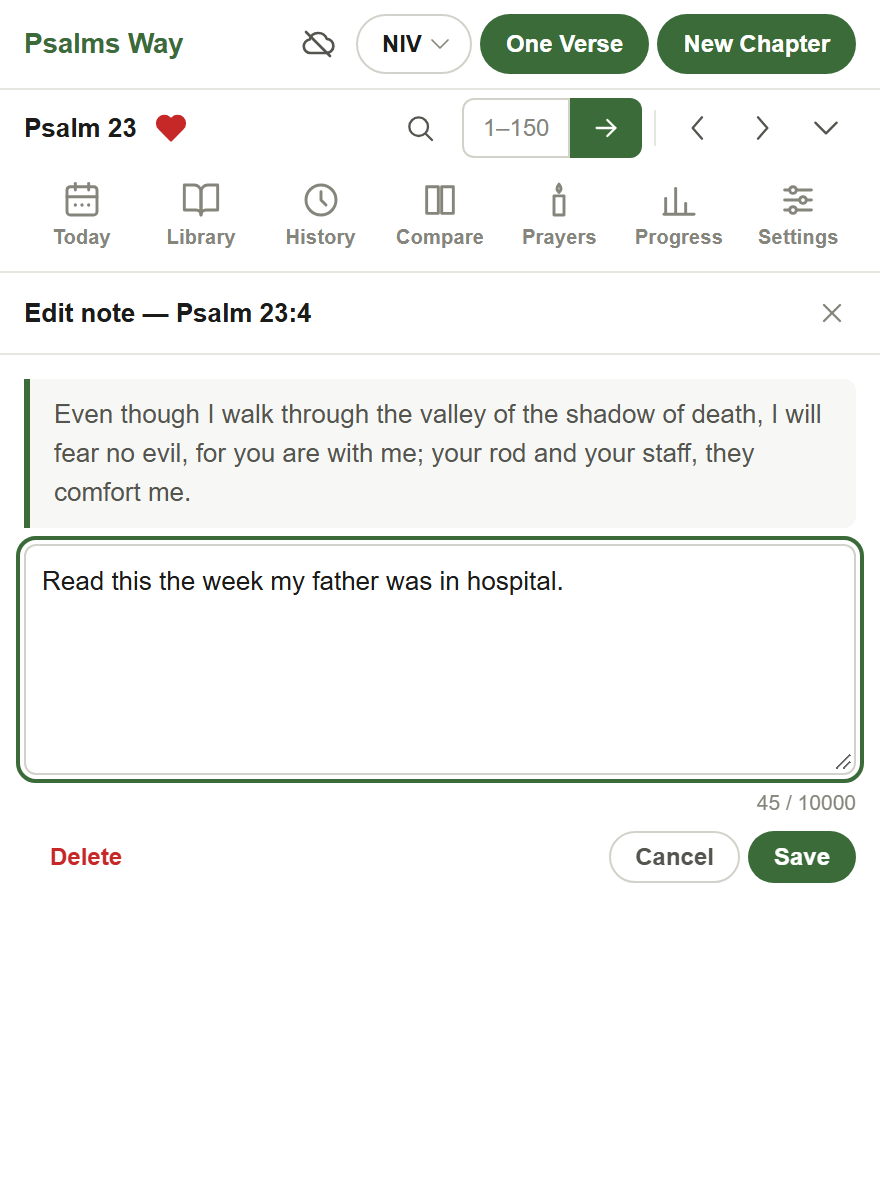
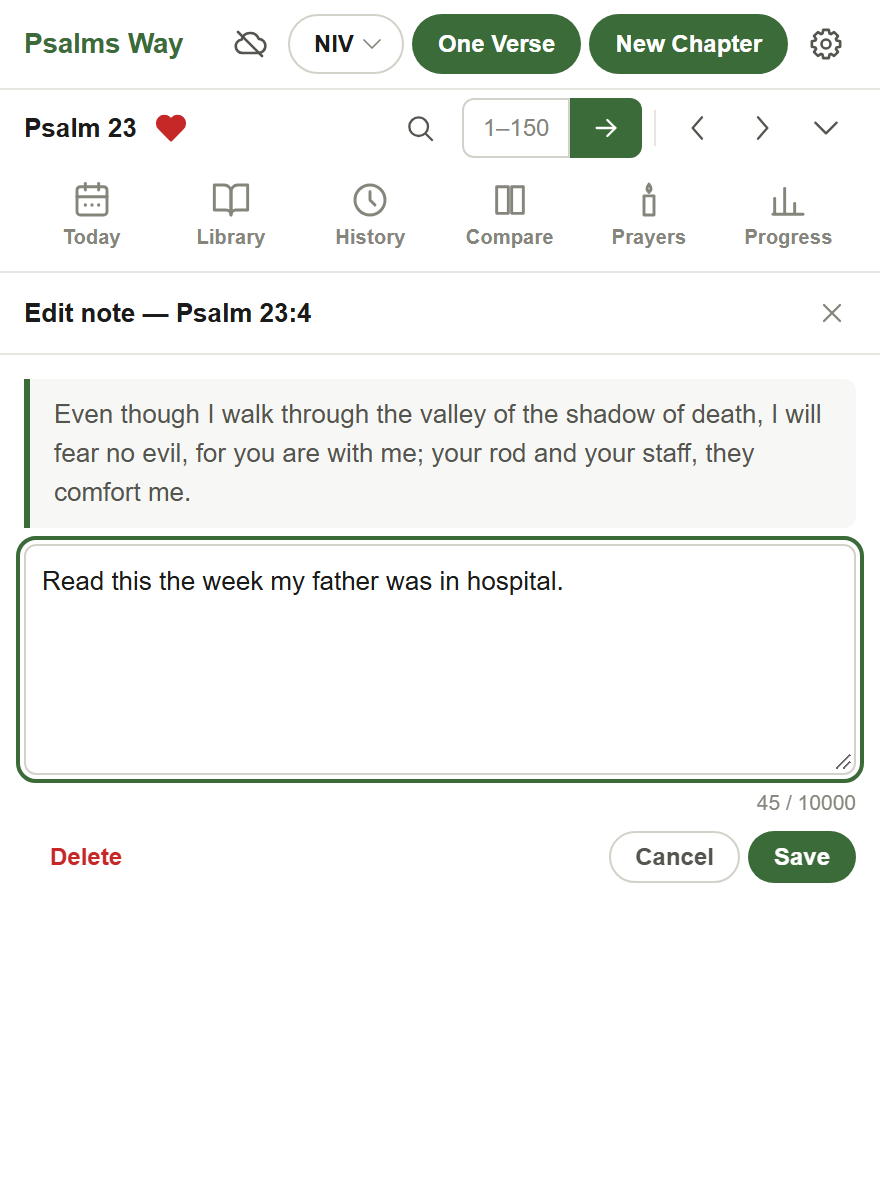
style: Settings is a gear at the end of the header; toolbar of six

diff --git a/scripts/smoke-test.js b/scripts/smoke-test.js
@@ -281,10 +281,20 @@ try {
     (await evaluate("document.querySelectorAll('[data-icon]').length")) === 0
   );
   check(
-    "the toolbar has seven buttons: Today, Library, History, Compare, Prayers, Progress, Settings",
+    "the toolbar has six buttons: Today, Library, History, Compare, Prayers, Progress",
     (await evaluate(
       "[...document.querySelectorAll('.toolbar .btn-tool')].map((b) => b.id).join()"
-    )) === "btnTodaysPsalm,btnLibrary,btnHistory,btnCompare,btnPrayers,btnProgress,btnSettings"
+    )) === "btnTodaysPsalm,btnLibrary,btnHistory,btnCompare,btnPrayers,btnProgress"
+  );
+  check(
+    "Settings is a gear button at the end of the header, after New Chapter",
+    await evaluate(`(() => {
+      const settings = document.getElementById('btnSettings');
+      return settings?.parentElement?.classList.contains('header-actions') &&
+        settings.previousElementSibling?.id === 'btnChapter' &&
+        settings.nextElementSibling === null &&
+        settings.getAttribute('aria-label').length > 0;
+    })()`)
   );
   check(
     "Search is an icon button in the chapter bar, just before the Psalm number, not in the toolbar",
@@ -1171,15 +1181,15 @@ try {
         ['locales/ext/de.json', 'locales/app/de.json'].map((path) => fetch(path).then((r) => r.json()))
       );
       const labels = [...document.querySelectorAll('.toolbar .btn-tool-label')];
-      return labels.length === 7 &&
+      return labels.length === 6 &&
         labels.every((label) => label.textContent === (ext[label.dataset.i18n] ?? app[label.dataset.i18n]));
     })()`)
   );
   check(
-    "the German toolbar no longer says Library, History, Compare, Prayers or Settings",
+    "the German toolbar no longer says Library, History, Compare, Prayers or Progress",
     await evaluate(`(() => {
       const labels = [...document.querySelectorAll('.toolbar .btn-tool-label')].map((l) => l.textContent);
-      return ['Library', 'History', 'Compare', 'Prayers', 'Settings'].every((word) => !labels.includes(word));
+      return ['Library', 'History', 'Compare', 'Prayers', 'Progress'].every((word) => !labels.includes(word));
     })()`)
   );
   check(

diff --git a/src/icons.js b/src/icons.js
@@ -48,14 +48,12 @@ const ICONS = {
     paths: ["M7 18a4.5 4.5 0 0 1-.6-8.96A6 6 0 0 1 17.8 8.6 4.7 4.7 0 0 1 17.3 18z", "M4 4l16 16"],
   },
   clock: { paths: ["M12 3a9 9 0 1 0 0 18 9 9 0 0 0 0-18z", "M12 7v5l3 3"] },
+  // A gear: eight teeth around a hub.
   settings: {
-    paths: ["M4 6h16", "M4 12h16", "M4 18h16"],
-    dots: [
-      [9, 6],
-      [15, 12],
-      [9, 18],
+    paths: [
+      "M19.02 9.65L21.42 10.17L21.42 13.83L19.02 14.35L18.62 15.3L19.96 17.37L17.37 19.96L15.3 18.62L14.35 19.02L13.83 21.42L10.17 21.42L9.65 19.02L8.7 18.62L6.63 19.96L4.04 17.37L5.38 15.3L4.98 14.35L2.58 13.83L2.58 10.17L4.98 9.65L5.38 8.7L4.04 6.63L6.63 4.04L8.7 5.38L9.65 4.98L10.17 2.58L13.83 2.58L14.35 4.98L15.3 5.38L17.37 4.04L19.96 6.63L18.62 8.7Z",
+      "M12 9a3 3 0 1 0 0 6 3 3 0 0 0 0-6z",
     ],
-    hollowDots: true,
   },
   library: {
     paths: [
@@ -122,9 +120,9 @@ export function icon(name, { size = 18, filled = false } = {}) {
     const circle = document.createElementNS(SVG_NS, "circle");
     circle.setAttribute("cx", String(cx));
     circle.setAttribute("cy", String(cy));
-    circle.setAttribute("r", spec.hollowDots ? "2" : "1");
-    circle.setAttribute("fill", spec.hollowDots ? "var(--bg)" : "currentColor");
-    if (!spec.hollowDots) circle.setAttribute("stroke", "none");
+    circle.setAttribute("r", "1");
+    circle.setAttribute("fill", "currentColor");
+    circle.setAttribute("stroke", "none");
     svg.appendChild(circle);
   }
   return svg;

diff --git a/popup.html b/popup.html
@@ -45,6 +45,18 @@
         <button class="button" type="button" id="btnChapter" data-i18n="newChapter">
           New Chapter
         </button>
+        <button
+          class="btn-icon"
+          type="button"
+          id="btnSettings"
+          title="Settings"
+          aria-label="Settings"
+          data-i18n-title="settings"
+          data-i18n-aria-label="settings"
+          aria-pressed="false"
+          data-icon="settings"
+          data-icon-size="18"
+        ></button>
       </div>
     </header>
 
@@ -204,17 +216,6 @@
           data-icon="progress"
         >
           <span class="btn-tool-label" data-i18n="progress">Progress</span>
-        </button>
-        <button
-          class="btn-tool"
-          type="button"
-          id="btnSettings"
-          title="Settings"
-          data-i18n-title="settings"
-          aria-pressed="false"
-          data-icon="settings"
-        >
-          <span class="btn-tool-label" data-i18n="settings">Settings</span>
         </button>
       </nav>
     </div>

diff --git a/style.css b/style.css
@@ -552,7 +552,7 @@ fieldset {
   letter-spacing: 0.01em;
   line-height: 1.15;
   text-align: center;
-  /* Seven buttons share 440 px. A long word is hyphenated where the browser knows
+  /* Six buttons share 440 px. A long word is hyphenated where the browser knows
      how; otherwise fitToolbarLabels (settings.js) draws it smaller until it fits.
      The title still holds the whole word. */
   hyphens: auto;

diff --git a/docs/superpowers/specs/2026-10-20-extension-complete-design.md b/docs/superpowers/specs/2026-10-20-extension-complete-design.md
@@ -15,9 +15,9 @@ badges, challenges). Reminders are out of scope (owner's decision).
 | Topic              | Decision                                                                                                                                                                                                                                                                                                                                                                                                                                                           |
 | ------------------ | ------------------------------------------------------------------------------------------------------------------------------------------------------------------------------------------------------------------------------------------------------------------------------------------------------------------------------------------------------------------------------------------------------------------------------------------------------------------ |
 | Layout             | Keep the current rows at the top: the popup opens from the toolbar, so every control stays near it. Refine, don't replace. Width stays 440 px.                                                                                                                                                                                                                                                                                                                     |
-| Row 1, header      | `Psalms Way` · sync status icon (moved here from the toolbar) · version chip (`NIV ▾`, opens the version picker) · One Verse · New Chapter                                                                                                                                                                                                                                                                                                                         |
+| Row 1, header      | `Psalms Way` · sync status icon (moved here from the toolbar) · version chip (`NIV ▾`, opens the version picker) · One Verse · New Chapter · Settings gear (moved here from the toolbar on owner feedback of 2026-10-21)                                                                                                                                                                                                                                           |
 | Row 2, chapter bar | `Psalm 23` · ♡ chapter favourite · Search icon · `1–150` Go (an arrow) · ‹ › ⌄ (the chevron turns up while the toolbar is hidden)                                                                                                                                                                                                                                                                                                                                  |
-| Row 3, toolbar     | Seven equal items: Today · Library · History · Compare · Prayers · Progress · Settings (Search moved to the chapter bar, beside the Psalm number, on owner feedback of 2026-10-21; the popup is 600 px tall)                                                                                                                                                                                                                                                       |
+| Row 3, toolbar     | Six equal items: Today · Library · History · Compare · Prayers · Progress (Settings moved to the header and Search moved to the chapter bar, beside the Psalm number, on owner feedback of 2026-10-21; the popup is 600 px tall)                                                                                                                                                                                                                                   |
 | Font               | Arial throughout (already shipped in `576e2a4`).                                                                                                                                                                                                                                                                                                                                                                                                                   |
 | Versions           | All 80 bundled (the phone's files, less lt_heritage and ta_oitce, which are left out because their psalm numbers are wrong), one file per version, only the chosen one loaded. Picker grouped by language with a filter box and each version's credit line. First choice from the browser language with the phone's rule, except English stays NIV (`modern`). Right-to-left text for he, ar, fa, ur, ug. Every version has 150 chapters, chapter N being Psalm N. |
 | App languages      | The phone's 47, "Automatic" (browser language) by default, choosable in Settings. The phone's translation files are reused as they are; extension-only wording gets its own files, translated into all 46 other languages. Right-to-left layout for ar, fa, he, ur, ug.                                                                                                                                                                                            |

diff --git a/USER_GUIDE.md b/USER_GUIDE.md
@@ -11,10 +11,11 @@ last, or on Today's Psalm the first time.
 The popup has three parts:
 
 - **The top row** — the Sync cloud, the Bible version button (for English readers it reads
-  **NIV** to begin with), and the two quick buttons, One Verse and New Chapter.
+  **NIV** to begin with), the two quick buttons, One Verse and New Chapter, and the
+  gear for Settings.
 - **The chapter row** — where you are (with a heart to keep the Psalm), and how to
   find or move between Psalms: Search, the number box and Go, then previous and next.
-- **The toolbar** — Today, Library, History, Compare, Prayers, Progress and Settings.
+- **The toolbar** — Today, Library, History, Compare, Prayers and Progress.
 
 You can hide the toolbar with the **⌄** button on the right of the chapter row. The
 arrow turns up (**⌃**) while the toolbar is hidden; press it to bring the toolbar
